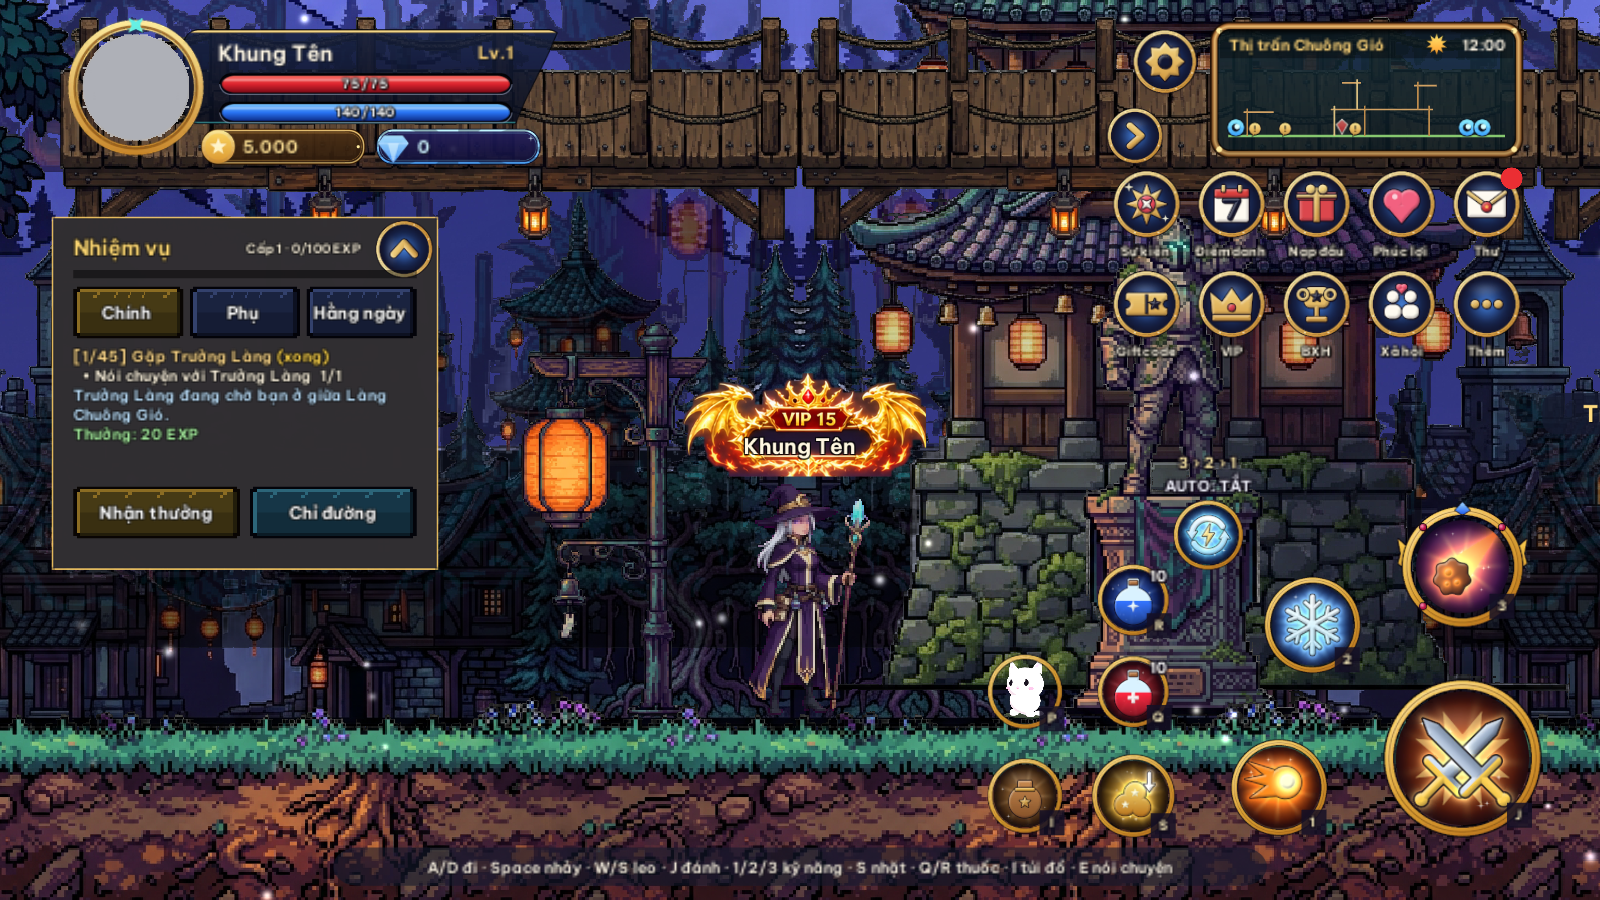
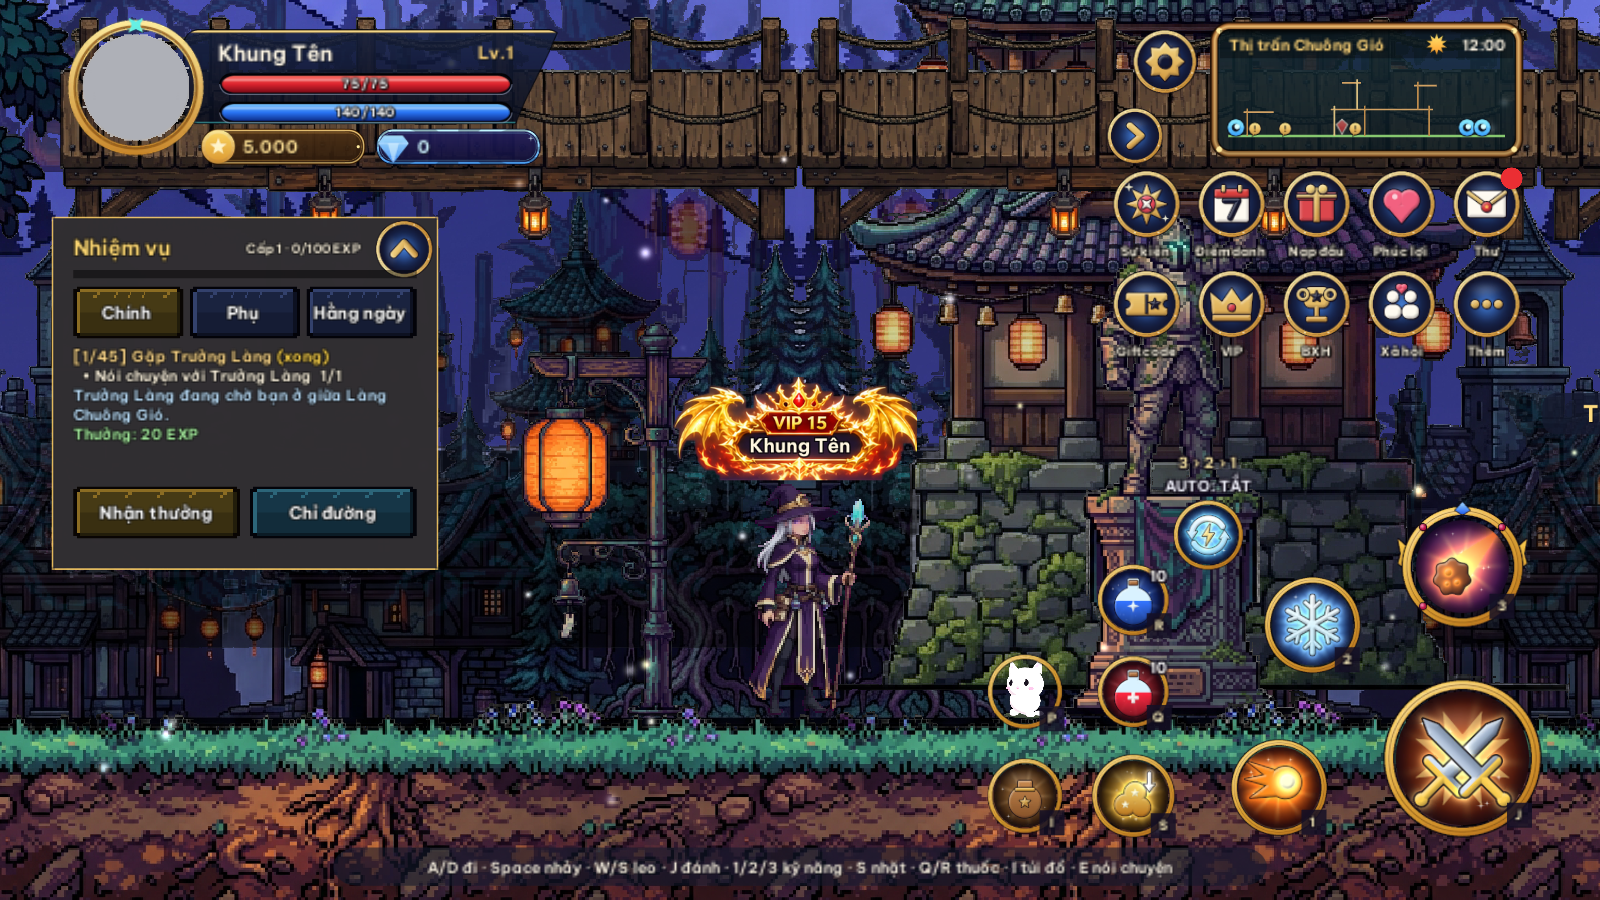
Name sits exactly in each frame's name slot (slot rectangles measured per frame from the artwork)

diff --git a/Assets/Scripts/Gameplay/PlayerNameplate.cs b/Assets/Scripts/Gameplay/PlayerNameplate.cs
@@ -1,3 +1,4 @@
+using System;
 using UnityEngine;
 using UnityEngine.UI;
 
@@ -21,6 +22,17 @@ namespace AdventureKing.Gameplay
         private RectTransform plate;
         private Image frame, plainPlate;
 
+        [Serializable] private sealed class SlotRect { public string id; public float x0, x1, y0, y1; }
+        [Serializable] private sealed class SlotFile { public SlotRect[] slots; }
+        private static SlotFile slotFile;
+        /// <summary>Where the dark name slot sits inside each frame picture (fractions of the picture, y from the top), measured from the artwork itself.</summary>
+        private static SlotRect SlotOf(string id)
+        {
+            if (slotFile == null) { var ta = Resources.Load<TextAsset>("NameplateSlots"); slotFile = ta ? JsonUtility.FromJson<SlotFile>(ta.text) : new SlotFile { slots = new SlotRect[0] }; }
+            foreach (SlotRect r in slotFile.slots) if (r.id == id) return r;
+            return new SlotRect { x0 = 0.2f, x1 = 0.8f, y0 = 0.55f, y1 = 0.85f };
+        }
+
         public string Shown => label ? label.text : "";
         public string EquippedTitle { get; private set; }
         public bool TitlesLoaded { get; private set; }
@@ -43,11 +55,12 @@ namespace AdventureKing.Gameplay
             {
                 float w = 330f;
                 frame.rectTransform.anchorMin = frame.rectTransform.anchorMax = new Vector2(0.5f, 0.5f);
-                frame.rectTransform.pivot = new Vector2(0.5f, 0.3f);    // the dark name slot of the artwork is at ~30 % of its height: put it on the plate centre
+                SlotRect slot = SlotOf(EquippedTitle);
+                frame.rectTransform.pivot = new Vector2((slot.x0 + slot.x1) * 0.5f, 1f - (slot.y0 + slot.y1) * 0.5f);   // the centre of this frame's name slot sits exactly on the plate centre
                 frame.rectTransform.anchoredPosition = Vector2.zero;
                 frame.rectTransform.sizeDelta = new Vector2(w, w * s.rect.height / s.rect.width);
                 label.transform.SetParent(frame.transform, false);
-                label.rectTransform.anchorMin = new Vector2(0.2f, 0.12f); label.rectTransform.anchorMax = new Vector2(0.8f, 0.42f);
+                label.rectTransform.anchorMin = new Vector2(slot.x0 + 0.015f, 1f - slot.y1 + 0.01f); label.rectTransform.anchorMax = new Vector2(slot.x1 - 0.015f, 1f - slot.y0 - 0.01f);
                 label.rectTransform.offsetMin = label.rectTransform.offsetMax = Vector2.zero;
             }
             else
